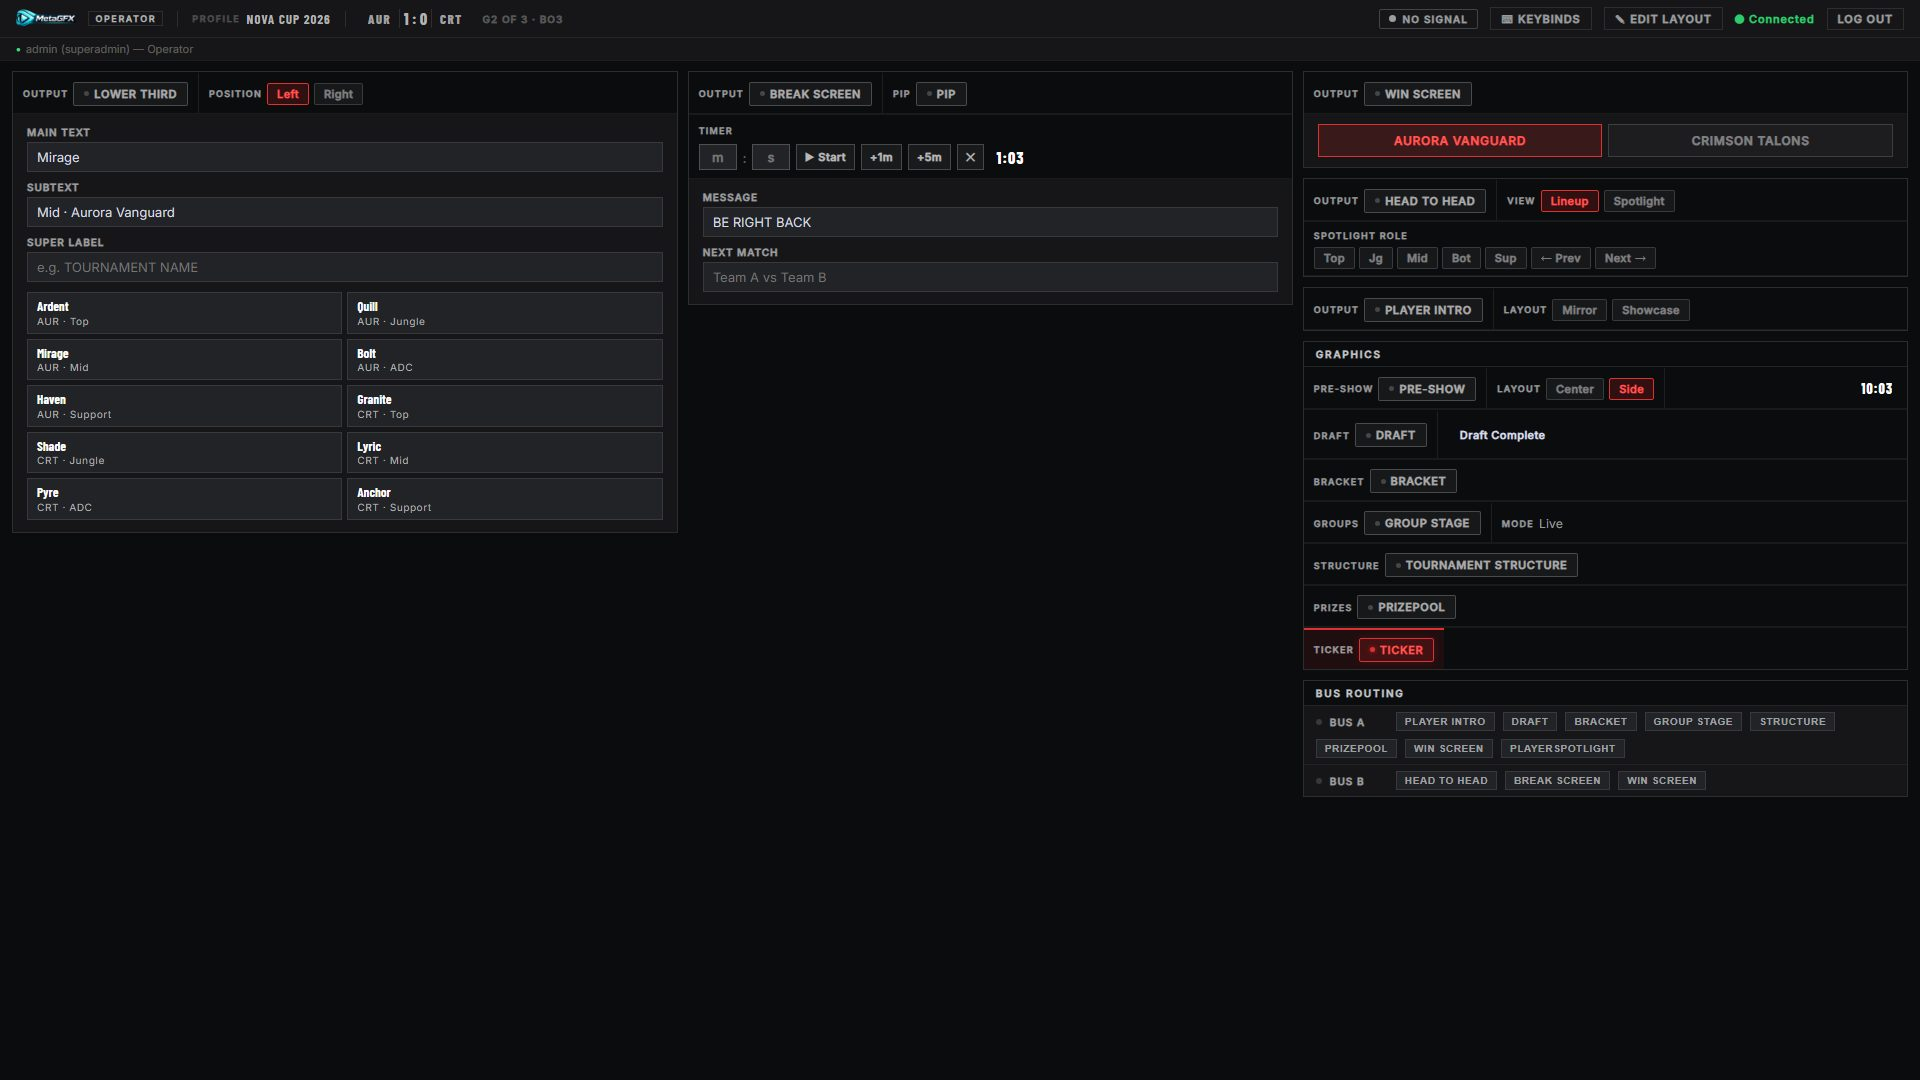
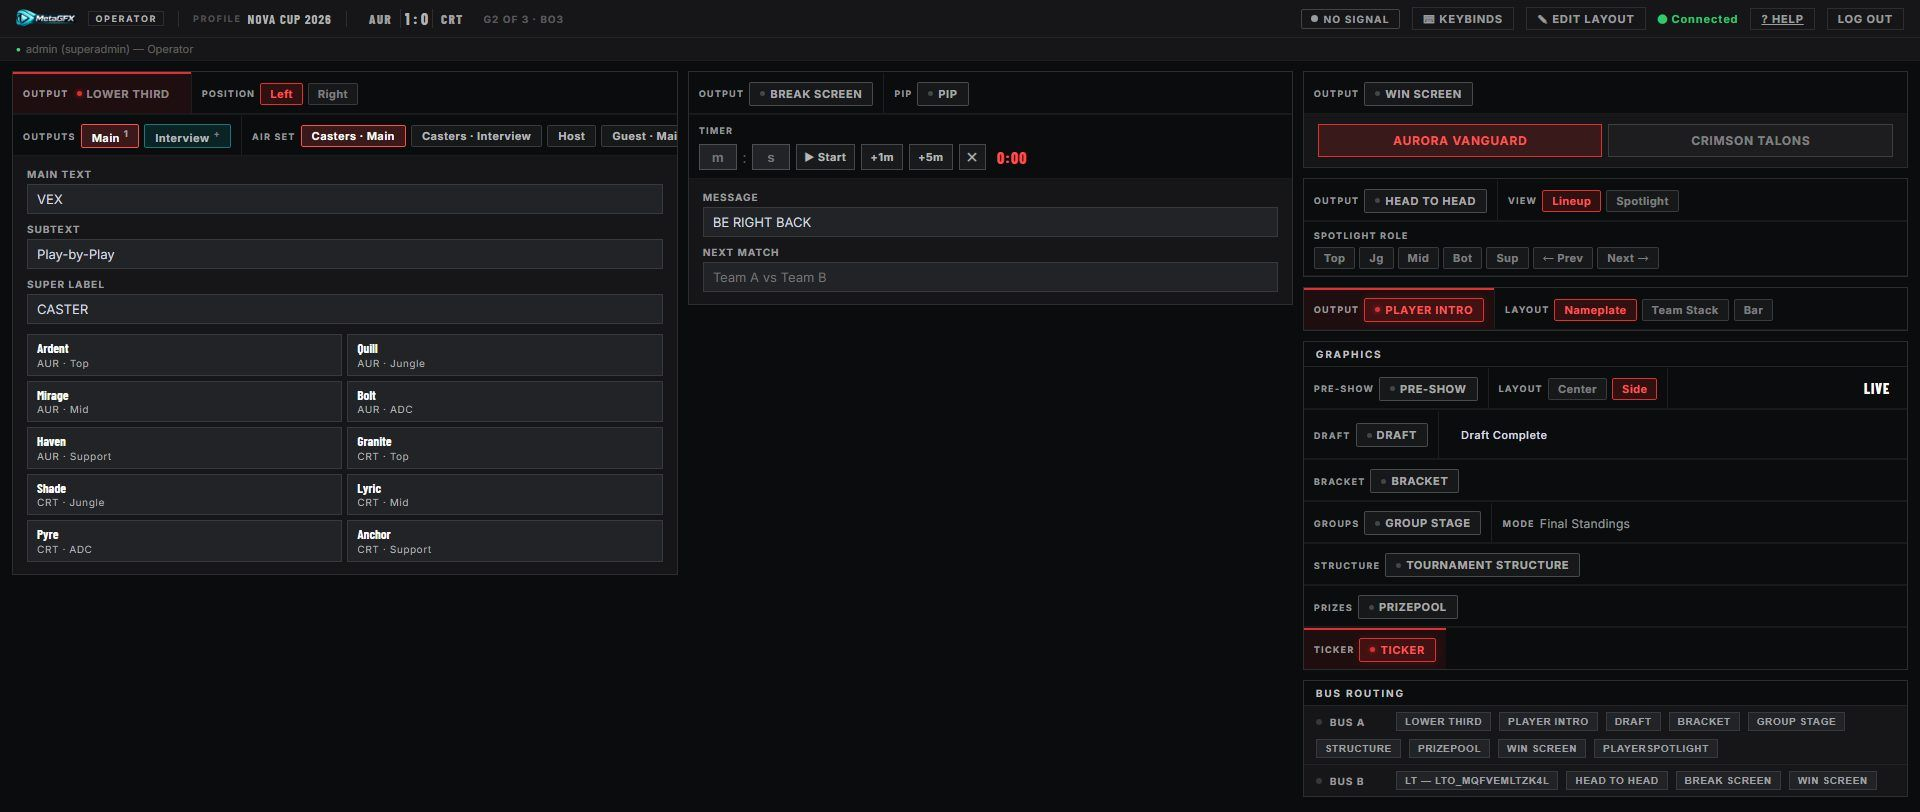
docs(wiki): image pass — systems & integrations (Category C)
Bring the systems pages to full standard:
- gfx-bus: bus source showing a live graphic (WebP)
- live-switcher: Live Switcher settings card (was image-less)
- ui-theming: Appearance settings card (was image-less)
- companion: expanded keyboard-shortcuts view (was image-less)
- operator-and-multiuser: refreshed operator view (cropped) + populated System Log
- user-profile, theming, champion-assets: refreshed control shots
- caster-view: audited — already current
- README index: fix stale player-intro layout names (Nameplate / Team Stack / Bar)

diff --git a/docs/gfx-bus.md b/docs/gfx-bus.md
@@ -11,6 +11,10 @@ Without buses you'd add ~14 browser sources to OBS (one per overlay), each runni
 - A **bus** has an output URL `/bus/<id>` — add this as a Browser Source (1920×1080, `?token=XXXX`) like any graphic.
 - In **Routing**, assign each graphic to a bus.
 - When you **Show** a graphic (from its ctrl-bar, the live bar, the operator view, or Companion), it's automatically routed onto its assigned bus and that bus goes live. **Hide** clears it. No manual switching of sources.
+
+Here the single `/bus/busA` source is showing the live bracket, because the bracket is currently shown and assigned to that bus — show a different graphic on the bus and the same source switches to it:
+
+![A GFX bus source displaying whichever graphic is live on it](img/gfx-bus-output.webp)
 - The [Live Switcher](live-switcher.md) understands buses too: a `/bus/<id>` source resolves to whichever graphic is currently live on it for PGM/PVW tagging.
 
 ## Setting it up

diff --git a/docs/README.md b/docs/README.md
@@ -20,7 +20,7 @@ Every graphic is a browser source for OBS/vMix at 1920×1080. Each page below co
 
 | Guide | Graphic |
 |---|---|
-| [Player Intro](player-intro.md) | Player/roster intro — Panel, Stack, Champion Showcase layouts. |
+| [Player Intro](player-intro.md) | Player/roster intro — Nameplate, Team Stack, Bar layouts. |
 | [Player Spotlight](player-spotlight.md) | 1–2 player spotlight; fullscreen + lower third; 4 designs. |
 | [Head to Head](head-to-head.md) | Team-vs-team comparison and lineups. |
 | [Draft Overlay](draft.md) | Live pick/ban board with timer. |

diff --git a/docs/companion.md b/docs/companion.md
@@ -9,6 +9,8 @@ MetaGFX supports two ways to trigger graphics and match actions without touching
 
 Both use the same underlying action API, so any action triggerable from a button is also triggerable from a keybind. Both are set up from your [User profile](user-profile.md) modal (sidebar user chip / **◈ Profile**).
 
+![Keyboard shortcuts in the profile modal — Graphics category expanded](img/keybinds-expanded.jpg)
+
 ---
 
 ## Keybinds

diff --git a/docs/ui-theming.md b/docs/ui-theming.md
@@ -12,6 +12,8 @@ The chrome uses a deliberate, broadcast-tool aesthetic: **dark neutrals with a s
 
 **Settings → Appearance.** Changes preview instantly and are **saved to your own account** — every user keeps their own look.
 
+![Appearance settings card](img/tool-appearance.jpg)
+
 | Control | Effect |
 |---|---|
 | **Preset** | A starting palette: **Graphite** (neutral grey), **Steel** (cool blue accent), **Bronze** (warm). |

diff --git a/docs/live-switcher.md b/docs/live-switcher.md
@@ -13,6 +13,8 @@ It's entirely optional — leave the switcher set to **None** and nothing change
 
 Configure under **Settings → Live Switcher** (admin). Pick **OBS** or **vMix**, fill in the connection details, tick **Enabled**, and click **Save & Connect**. The card shows a live **connection status**.
 
+![Live Switcher settings card](img/tool-live-switcher.jpg)
+
 ### OBS
 
 1. In OBS: **Tools → WebSocket Server Settings**.
